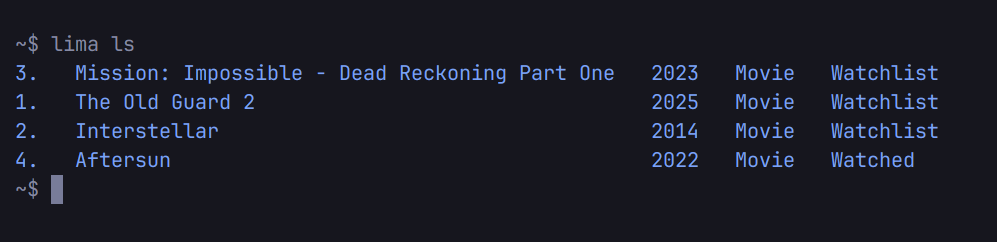
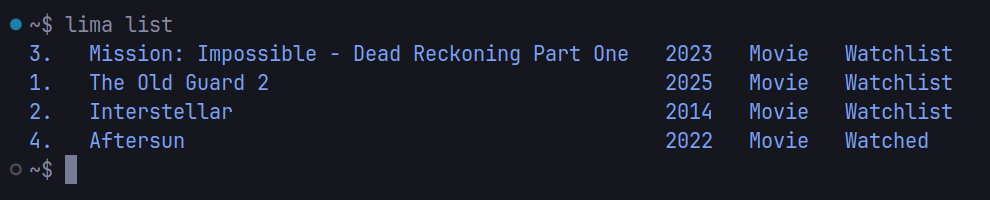
Update: Readme

diff --git a/README.md b/README.md
@@ -1,4 +1,4 @@
-![lima](https://github.com/faizisyellow/lima/tree/main/demo/lima-banner.png?raw=true)
+![lima](https://github.com/faizisyellow/lima/blob/main/demo/lima-banner.png?raw=true)
 
 # What is it ?
 Lima is a movie list management command line interface application.  
@@ -15,5 +15,6 @@ With lima you can manage your movies list easyly and as simple as possible.
 
 # Usage Examples
 Here's an example of lists movies
-> lima list
-![lima](https://github.com/faizisyellow/lima/tree/main/demo/lima-ls-demo.png?raw=true)
+> lima list  
+
+![lima](https://github.com/faizisyellow/lima/blob/main/demo/lima-ls-demo.png?raw=true)
